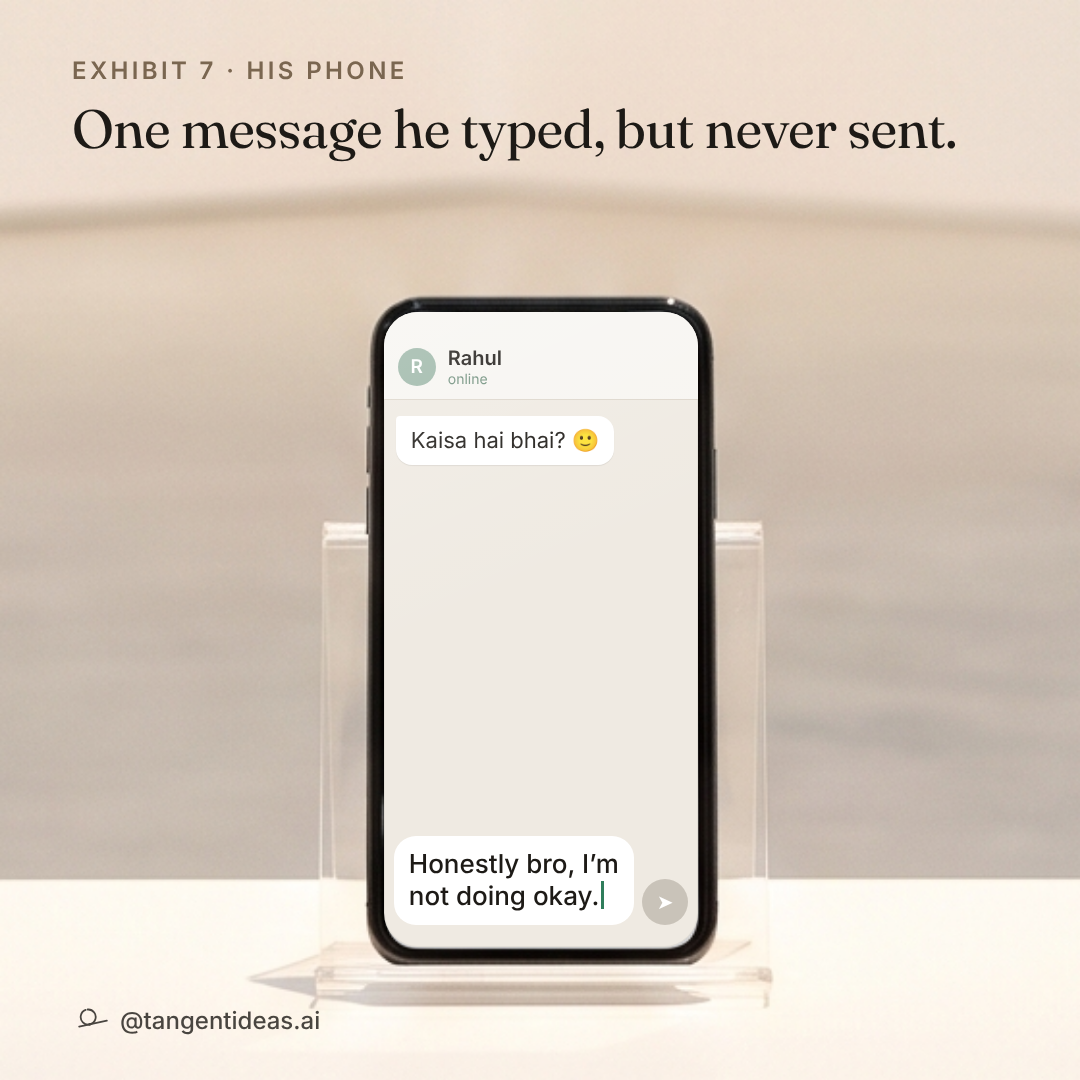
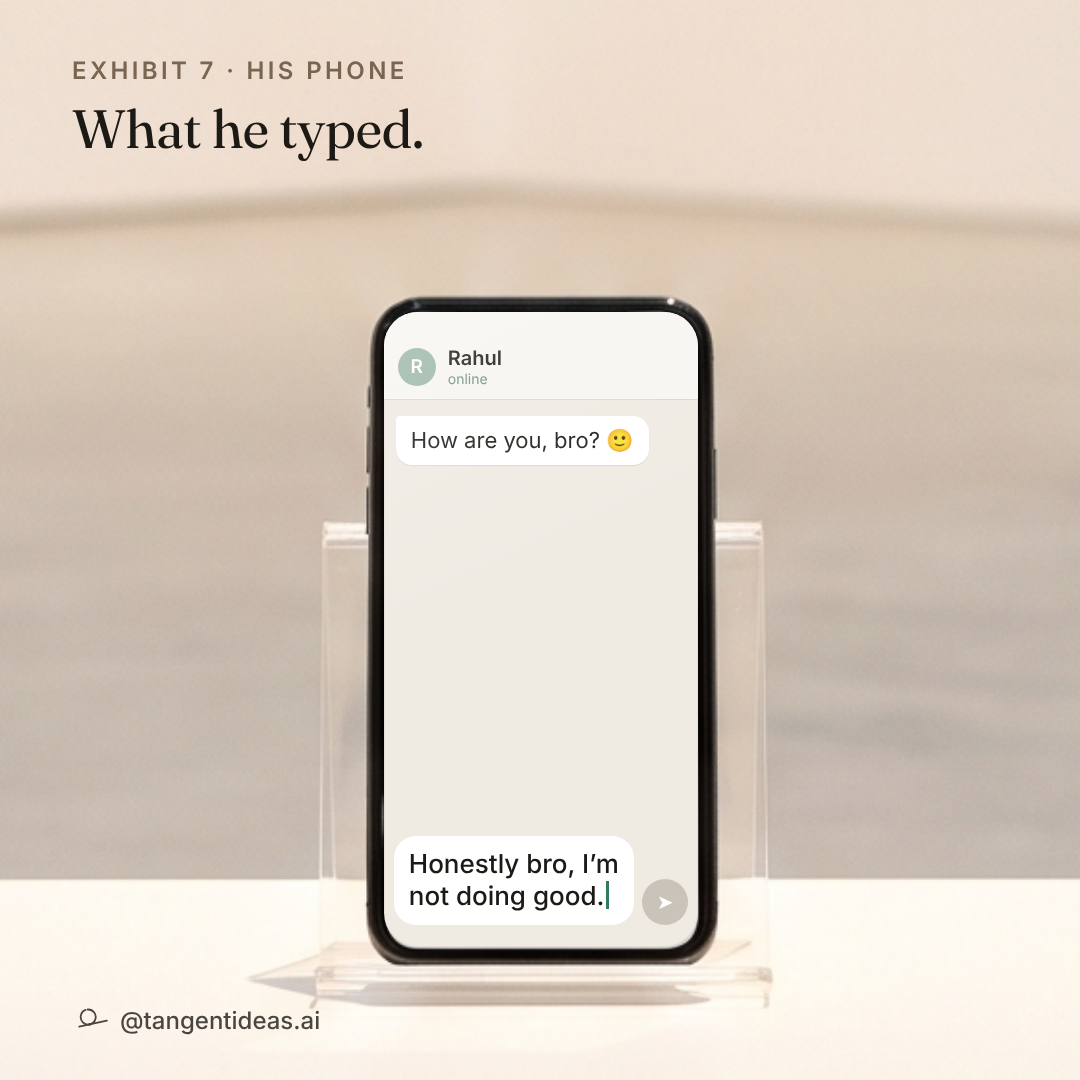
Museum of Men: phone exhibit split into typed/sent, English chat
Claude-Session: https://claude.ai/code/session_01ETPVMQfxYKhapRnTByD51a

Changed region(s): [[0.0611, 0.0917, 0.8861, 0.1528], [0.3667, 0.3667, 0.6111, 0.4278], [0.4889, 0.825, 0.5806, 0.8556]]

diff --git a/productions/2026-11-museum-of-men/slides-square/html/slide-09.html b/productions/2026-11-museum-of-men/slides-square/html/slide-09.html
@@ -11,7 +11,25 @@ h1{margin:14px 0 0;max-width:940px;font:400 56px/1.12 Fraunces,Georgia,serif;let
 .foot{display:flex;justify-content:space-between;align-items:center;font:500 24px Inter;opacity:.8}
 .foot .me{display:flex;gap:12px;align-items:center}
 .dark{color:#f6f1e8} .dark .lbl{color:#e6cfae}
-.close{margin-top:0;font-size:54px;max-width:860px;text-shadow:0 2px 18px rgba(0,0,0,.35)}</style></head><body style="background:url('file:///home/user/tangent-social-media/productions/2026-11-museum-of-men/assets/gen/pick/slide-09.png') no-repeat;background-size:1080px 1340.6896551724137px;background-position:0px -260.6896551724138px"><div class="slide dark">
-<h1 class="close">Men keep a lot to themselves. Today, ask one how he&rsquo;s really doing.</h1><div class="spacer"></div>
+h1{font-size:54px}
+.scr{position:absolute;left:383.7857142857143px;top:312.42857142857144px;width:314.3571428571429px;height:634.5px;border-radius:34px;overflow:hidden;
+  background:#efeae2;display:flex;flex-direction:column;font-family:Inter;box-shadow:inset 0 0 0 1px rgba(0,0,0,.05)}
+.scr:after{content:"";position:absolute;inset:0;background:linear-gradient(155deg,rgba(255,255,255,.22),rgba(255,255,255,0) 45%);pointer-events:none}
+.hd{display:flex;gap:12px;align-items:center;padding:34px 14px 12px;background:#f7f5f1;border-bottom:1px solid #ddd6cb}
+.av{width:38px;height:38px;border-radius:50%;background:#9db7a8;color:#fff;font:600 19px Inter;display:grid;place-items:center}
+.nm{font:600 20px Inter;color:#1d1a16} .st{font:400 14px Inter;color:#6f8f7c}
+.body{flex:1;padding:16px 12px;display:flex;flex-direction:column;align-items:flex-start;gap:12px}
+.in{display:inline-block;background:#fff;border-radius:4px 16px 16px 16px;padding:10px 15px;font:400 22px/1.3 Inter;color:#1d1a16;box-shadow:0 1px 1px rgba(0,0,0,.08)}
+.out{align-self:flex-end;background:#d9f2c9;border-radius:16px 4px 16px 16px;padding:10px 14px;font:500 24px/1.3 Inter;color:#1d1a16;box-shadow:0 1px 1px rgba(0,0,0,.08)}
+.tk{margin-left:8px;font-size:15px;color:#4f9fd6;letter-spacing:-3px}
+.bar{display:flex;gap:8px;align-items:flex-end;padding:10px 10px 22px}
+.draft{flex:1;background:#fff;border-radius:22px;padding:12px 15px;font:500 26px/1.25 Inter;color:#1d1a16}
+.draft.empty{color:#a39c92;font-weight:400}
+.cur{display:inline-block;width:3px;height:28px;margin-left:2px;vertical-align:-4px;background:#2f7d5b}
+.send{width:46px;height:46px;border-radius:50%;background:#c9c3b9;color:#fff;font-size:20px;display:grid;place-items:center}</style></head><body style="background:url('file:///home/user/tangent-social-media/productions/2026-11-museum-of-men/assets/gen/pick/slide-08.png') no-repeat;background-size:3579.4285714285716px 4443.428571428572px;background-position:-1249.7142857142858px -1917px"><div class="slide ">
+<div class="lbl">Exhibit 7 &middot; His phone</div><h1>What he sent.</h1><div class="scr"><div class="hd"><div class="av">R</div><div><div class="nm">Rahul</div><div class="st">online</div></div></div>
+  <div class="body"><div class="in">How are you, bro? 🙂</div><div class="out">All good, bro 👍<span class="tk">&#10003;&#10003;</span></div></div>
+  <div class="bar"><div class="draft empty">Message<span class="cur"></span></div><div class="send">&#10148;</div></div>
+</div><div class="spacer"></div>
 <div class="foot"><span class="me"><svg viewBox="0 0 120 120" fill="none" width="36" height="36" style="color:currentColor"><path d="M 52.26 25.06 A 25 25 0 1 1 45.45 26.5" stroke="currentColor" stroke-width="6" stroke-linecap="round"/><line x1="24" y1="82" x2="116.2" y2="62.4" stroke="currentColor" stroke-width="6" stroke-linecap="round"/><circle cx="59.2" cy="74.5" r="4.85" fill="currentColor"/></svg><span>@tangentideas.ai</span></span><span></span></div>
 </div></body></html>

diff --git a/productions/2026-11-museum-of-men/slides-square/html/slide-11.html b/productions/2026-11-museum-of-men/slides-square/html/slide-11.html
@@ -1,0 +1,37 @@
+<!doctype html><html><head><meta charset="utf-8">
+<style>
+@import url('https://fonts.googleapis.com/css2?family=Fraunces:opsz,wght@9..144,400;9..144,500&family=Inter:wght@400;500;600&display=block');
+*{box-sizing:border-box}
+html,body{margin:0;width:1080px;height:1080px;overflow:hidden;color:#1d1a16}
+.slide{position:relative;width:1080px;height:1080px;padding:50px 72px 42px;display:flex;flex-direction:column}
+.top{display:flex;justify-content:space-between;font:600 22px Inter;letter-spacing:.18em;text-transform:uppercase;opacity:.62}
+.lbl{margin-top:6px;font:600 24px Inter;letter-spacing:.14em;text-transform:uppercase;color:#7a6650}
+h1{margin:14px 0 0;max-width:940px;font:400 56px/1.12 Fraunces,Georgia,serif;letter-spacing:-.012em;text-wrap:balance}
+.spacer{flex:1}
+.foot{display:flex;justify-content:space-between;align-items:center;font:500 24px Inter;opacity:.8}
+.foot .me{display:flex;gap:12px;align-items:center}
+.dark{color:#f6f1e8} .dark .lbl{color:#e6cfae}
+.wall{margin-top:40px;text-align:center;font:400 60px/1.08 Fraunces,Georgia,serif;letter-spacing:-.01em;color:#2a241d}
+.card{margin:34px auto 0;width:800px;background:#fbfaf7;border-radius:6px;padding:44px 56px 38px;
+  box-shadow:0 18px 50px rgba(60,45,30,.18),0 2px 6px rgba(60,45,30,.10)}
+.cl{font:600 24px Inter;letter-spacing:.14em;text-transform:uppercase;color:#7a6650}
+.ct{margin-top:14px;font:400 50px/1.12 Fraunces,Georgia,serif;letter-spacing:-.01em;text-wrap:balance}
+.cs{margin-top:14px;font:400 32px/1.25 Fraunces,Georgia,serif;color:#3a332b}
+.rule{height:1px;background:#d9d2c6;margin:28px 0 20px}
+.rows{display:grid;gap:10px;font:500 27px Inter}
+.rows span{display:inline-block;width:190px;color:#7a6650;font-weight:500}
+.disc{margin-top:26px;font:400 22px Inter;color:#7a6650}</style></head><body style="background:url('file:///home/user/tangent-social-media/productions/2026-11-museum-of-men/assets/gen/pick/slide-03.png') no-repeat;background-size:2723.4782608695655px 3380.8695652173915px;background-position:-821.7391304347826px 0px"><div class="slide ">
+<div class="wall">Happy International<br>Men&rsquo;s Day</div><div class="card">
+  <div class="cl">Exhibit 8 &middot; The maker</div>
+  <div class="ct">The man who made this museum, with AI.</div>
+  <div class="cs">Follow him for more art, apps and stories.</div>
+  <div class="rule"></div>
+  <div class="rows">
+    <div><span>Instagram</span>@tangentideas.ai</div>
+    <div><span>YouTube</span>@tangentideasai</div>
+    <div><span>Medium</span>@tangentideasai</div>
+    <div><span>Web</span>tangentideas.ai</div>
+  </div>
+</div><div class="spacer"></div>
+<div class="foot"><span class="me"><svg viewBox="0 0 120 120" fill="none" width="36" height="36" style="color:currentColor"><path d="M 52.26 25.06 A 25 25 0 1 1 45.45 26.5" stroke="currentColor" stroke-width="6" stroke-linecap="round"/><line x1="24" y1="82" x2="116.2" y2="62.4" stroke="currentColor" stroke-width="6" stroke-linecap="round"/><circle cx="59.2" cy="74.5" r="4.85" fill="currentColor"/></svg><span>@tangentideas.ai</span></span><span></span></div>
+</div></body></html>

diff --git a/productions/2026-11-museum-of-men/slides-square/html/slide-08.html b/productions/2026-11-museum-of-men/slides-square/html/slide-08.html
@@ -18,16 +18,18 @@ h1{font-size:54px}
 .hd{display:flex;gap:12px;align-items:center;padding:34px 14px 12px;background:#f7f5f1;border-bottom:1px solid #ddd6cb}
 .av{width:38px;height:38px;border-radius:50%;background:#9db7a8;color:#fff;font:600 19px Inter;display:grid;place-items:center}
 .nm{font:600 20px Inter;color:#1d1a16} .st{font:400 14px Inter;color:#6f8f7c}
-.body{flex:1;padding:16px 12px}
+.body{flex:1;padding:16px 12px;display:flex;flex-direction:column;align-items:flex-start;gap:12px}
 .in{display:inline-block;background:#fff;border-radius:4px 16px 16px 16px;padding:10px 15px;font:400 22px/1.3 Inter;color:#1d1a16;box-shadow:0 1px 1px rgba(0,0,0,.08)}
+.out{align-self:flex-end;background:#d9f2c9;border-radius:16px 4px 16px 16px;padding:10px 14px;font:500 24px/1.3 Inter;color:#1d1a16;box-shadow:0 1px 1px rgba(0,0,0,.08)}
+.tk{margin-left:8px;font-size:15px;color:#4f9fd6;letter-spacing:-3px}
 .bar{display:flex;gap:8px;align-items:flex-end;padding:10px 10px 22px}
 .draft{flex:1;background:#fff;border-radius:22px;padding:12px 15px;font:500 26px/1.25 Inter;color:#1d1a16}
+.draft.empty{color:#a39c92;font-weight:400}
 .cur{display:inline-block;width:3px;height:28px;margin-left:2px;vertical-align:-4px;background:#2f7d5b}
 .send{width:46px;height:46px;border-radius:50%;background:#c9c3b9;color:#fff;font-size:20px;display:grid;place-items:center}</style></head><body style="background:url('file:///home/user/tangent-social-media/productions/2026-11-museum-of-men/assets/gen/pick/slide-08.png') no-repeat;background-size:3579.4285714285716px 4443.428571428572px;background-position:-1249.7142857142858px -1917px"><div class="slide ">
-<div class="lbl">Exhibit 7 &middot; His phone</div><h1>One message he typed, but never sent.</h1><div class="scr">
-  <div class="hd"><div class="av">R</div><div><div class="nm">Rahul</div><div class="st">online</div></div></div>
-  <div class="body"><div class="in">Kaisa hai bhai? 🙂</div></div>
-  <div class="bar"><div class="draft">Honestly bro, I&rsquo;m not doing okay.<span class="cur"></span></div><div class="send">&#10148;</div></div>
+<div class="lbl">Exhibit 7 &middot; His phone</div><h1>What he typed.</h1><div class="scr"><div class="hd"><div class="av">R</div><div><div class="nm">Rahul</div><div class="st">online</div></div></div>
+  <div class="body"><div class="in">How are you, bro? 🙂</div></div>
+  <div class="bar"><div class="draft">Honestly bro, I&rsquo;m not doing good.<span class="cur"></span></div><div class="send">&#10148;</div></div>
 </div><div class="spacer"></div>
 <div class="foot"><span class="me"><svg viewBox="0 0 120 120" fill="none" width="36" height="36" style="color:currentColor"><path d="M 52.26 25.06 A 25 25 0 1 1 45.45 26.5" stroke="currentColor" stroke-width="6" stroke-linecap="round"/><line x1="24" y1="82" x2="116.2" y2="62.4" stroke="currentColor" stroke-width="6" stroke-linecap="round"/><circle cx="59.2" cy="74.5" r="4.85" fill="currentColor"/></svg><span>@tangentideas.ai</span></span><span></span></div>
 </div></body></html>

diff --git a/productions/2026-11-museum-of-men/slides-square/html/slide-10.html b/productions/2026-11-museum-of-men/slides-square/html/slide-10.html
@@ -11,27 +11,7 @@ h1{margin:14px 0 0;max-width:940px;font:400 56px/1.12 Fraunces,Georgia,serif;let
 .foot{display:flex;justify-content:space-between;align-items:center;font:500 24px Inter;opacity:.8}
 .foot .me{display:flex;gap:12px;align-items:center}
 .dark{color:#f6f1e8} .dark .lbl{color:#e6cfae}
-.wall{margin-top:40px;text-align:center;font:400 60px/1.08 Fraunces,Georgia,serif;letter-spacing:-.01em;color:#2a241d}
-.card{margin:34px auto 0;width:800px;background:#fbfaf7;border-radius:6px;padding:44px 56px 38px;
-  box-shadow:0 18px 50px rgba(60,45,30,.18),0 2px 6px rgba(60,45,30,.10)}
-.cl{font:600 24px Inter;letter-spacing:.14em;text-transform:uppercase;color:#7a6650}
-.ct{margin-top:14px;font:400 50px/1.12 Fraunces,Georgia,serif;letter-spacing:-.01em;text-wrap:balance}
-.cs{margin-top:14px;font:400 32px/1.25 Fraunces,Georgia,serif;color:#3a332b}
-.rule{height:1px;background:#d9d2c6;margin:28px 0 20px}
-.rows{display:grid;gap:10px;font:500 27px Inter}
-.rows span{display:inline-block;width:190px;color:#7a6650;font-weight:500}
-.disc{margin-top:26px;font:400 22px Inter;color:#7a6650}</style></head><body style="background:url('file:///home/user/tangent-social-media/productions/2026-11-museum-of-men/assets/gen/pick/slide-03.png') no-repeat;background-size:2723.4782608695655px 3380.8695652173915px;background-position:-821.7391304347826px 0px"><div class="slide ">
-<div class="wall">Happy International<br>Men&rsquo;s Day</div><div class="card">
-  <div class="cl">Exhibit 8 &middot; The maker</div>
-  <div class="ct">The man who made this museum, with AI.</div>
-  <div class="cs">Follow him for more art, apps and stories.</div>
-  <div class="rule"></div>
-  <div class="rows">
-    <div><span>Instagram</span>@tangentideas.ai</div>
-    <div><span>YouTube</span>@tangentideasai</div>
-    <div><span>Medium</span>@tangentideasai</div>
-    <div><span>Web</span>tangentideas.ai</div>
-  </div>
-</div><div class="spacer"></div>
+.close{margin-top:0;font-size:54px;max-width:860px;text-shadow:0 2px 18px rgba(0,0,0,.35)}</style></head><body style="background:url('file:///home/user/tangent-social-media/productions/2026-11-museum-of-men/assets/gen/pick/slide-09.png') no-repeat;background-size:1080px 1340.6896551724137px;background-position:0px -260.6896551724138px"><div class="slide dark">
+<h1 class="close">Men keep a lot to themselves. Today, ask one how he&rsquo;s really doing.</h1><div class="spacer"></div>
 <div class="foot"><span class="me"><svg viewBox="0 0 120 120" fill="none" width="36" height="36" style="color:currentColor"><path d="M 52.26 25.06 A 25 25 0 1 1 45.45 26.5" stroke="currentColor" stroke-width="6" stroke-linecap="round"/><line x1="24" y1="82" x2="116.2" y2="62.4" stroke="currentColor" stroke-width="6" stroke-linecap="round"/><circle cx="59.2" cy="74.5" r="4.85" fill="currentColor"/></svg><span>@tangentideas.ai</span></span><span></span></div>
 </div></body></html>

diff --git a/productions/2026-11-museum-of-men/README.md b/productions/2026-11-museum-of-men/README.md
@@ -97,3 +97,12 @@ last two exhibits turn warm: what he gives up, and his phone, so call him.
   Both builds re-rendered.
   - Drive "Post 6": the old slide-01/slide-10 were moved to Drive trash (recoverable) and the new
     ones uploaded. Sizes match: 1651671 and 880977 bytes.
+- 2026-11-19 (after SHIP, before posting): Sparsh's changes.
+  - Chat messages in English only (global audience). Rahul's message is now "How are you, bro? 🙂".
+  - The phone exhibit is now two slides: 8 "What he typed." (draft "Honestly bro, I'm not doing
+    good.") and 9 "What he sent." (sent bubble "All good, bro 👍"). The swipe plays the delete. 11
+    slides total.
+  - His wife: the closing line ties only to the phone and drops the humour. Options offered; the
+    Showrunner's pick is "Let him keep the chargers. Just don't let him keep everything to
+    himself." Waiting on Sparsh.
+  - Drive Post 6 is NOT yet updated; it waits for the closing-line decision.

diff --git a/productions/2026-11-museum-of-men/carousel.md b/productions/2026-11-museum-of-men/carousel.md
@@ -50,9 +50,14 @@ B: Exhibit 6 · The remote
 V: A TV remote sealed in a clear, slightly yellowed plastic cover, on a plinth
 
 ### Slide 8
-H: One message he typed, but never sent.
+H: What he typed.
 B: Exhibit 7 · His phone
-V: A phone on a plinth. On screen, a chat with "Rahul" and a typed, unsent draft in the text box: "Honestly bro, I'm not doing okay." The send button is not pressed.
+V: The phone on a plinth. A chat with "Rahul": incoming "How are you, bro? 🙂"; typed in the box, not sent: "Honestly bro, I'm not doing good."
+
+### Slide 8b
+H: What he sent.
+B: Exhibit 7 · His phone
+V: The same phone. The draft is gone; a sent green bubble reads "All good, bro 👍" (delivered ticks)
 
 ### Slide 9
 H: Men keep a lot to themselves. Today, ask one how he's really doing.
